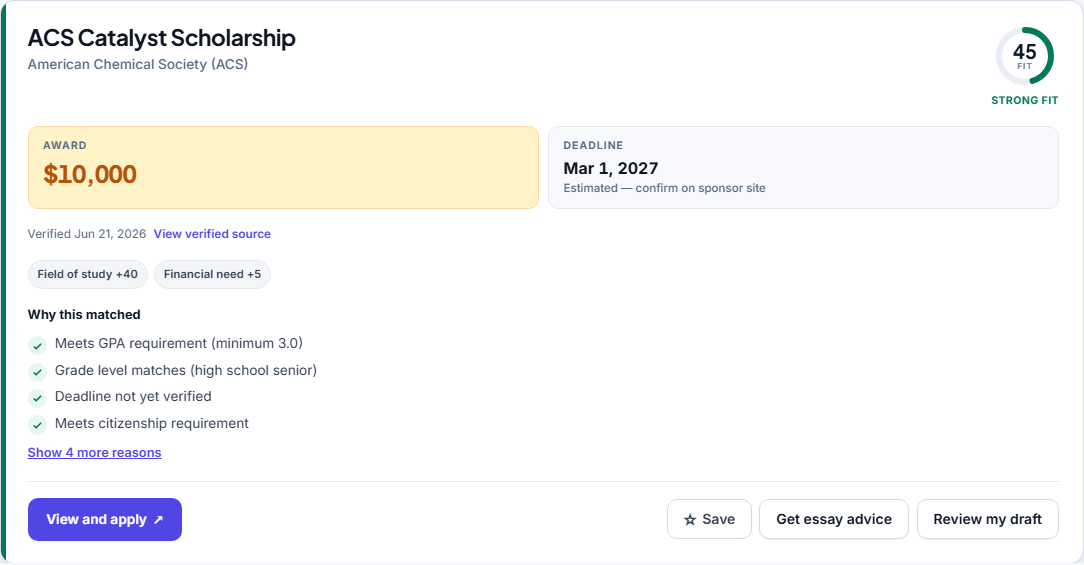
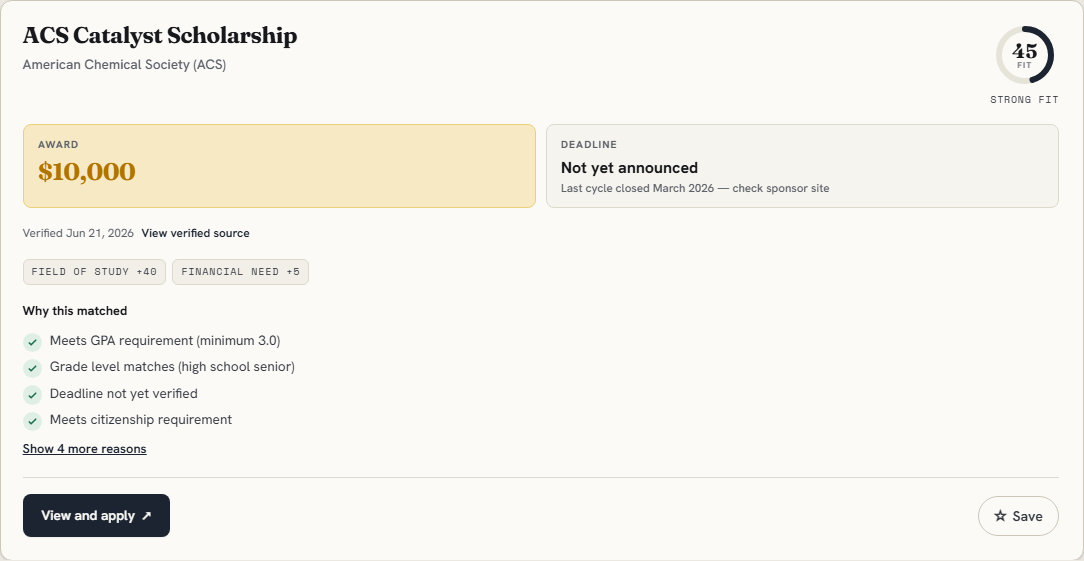
Refresh README screenshots; adapt capture script to multi-step form
Also replaces the last em dash in a UI string (deadline note).

diff --git a/app/static/index.html b/app/static/index.html
@@ -25,7 +25,7 @@
   <link rel="preconnect" href="https://fonts.googleapis.com">
   <link rel="preconnect" href="https://fonts.gstatic.com" crossorigin>
   <link href="https://fonts.googleapis.com/css2?family=Fraunces:opsz,wght@9..144,400;9..144,500;9..144,600;9..144,700&family=Hanken+Grotesk:wght@400;500;600;700&family=Space+Mono:wght@400;700&display=swap" rel="stylesheet">
-  <link rel="stylesheet" href="/static/css/style.css?v=20260709-3">
+  <link rel="stylesheet" href="/static/css/style.css?v=20260709-4">
 </head>
 <body>
   <a class="skip-link" href="#main">Skip to content</a>
@@ -836,6 +836,6 @@
     </div>
   </div>
 
-  <script src="/static/js/app.js?v=20260709-3"></script>
+  <script src="/static/js/app.js?v=20260709-4"></script>
 </body>
 </html>

diff --git a/app/static/js/app.js b/app/static/js/app.js
@@ -4861,7 +4861,7 @@ function deadlineParts(deadline, estimated) {
       if (isPastDate(estimated)) {
         return {
           value: "Not yet announced",
-          note: `Last cycle closed ${formatMonthYear(estimated)} \u2014 check sponsor site`,
+          note: `Last cycle closed ${formatMonthYear(estimated)}; check sponsor site`,
         };
       }
       return { value: formatVerifiedDate(estimated), note: "Estimated; confirm on sponsor site" };

diff --git a/app/templates/base.html b/app/templates/base.html
@@ -17,7 +17,7 @@
   <link rel="preconnect" href="https://fonts.googleapis.com">
   <link rel="preconnect" href="https://fonts.gstatic.com" crossorigin>
   <link href="https://fonts.googleapis.com/css2?family=Fraunces:opsz,wght@9..144,400;9..144,500;9..144,600;9..144,700&family=Hanken+Grotesk:wght@400;500;600;700&family=Space+Mono:wght@400;700&display=swap" rel="stylesheet">
-  <link rel="stylesheet" href="/static/css/style.css?v=20260709-3">
+  <link rel="stylesheet" href="/static/css/style.css?v=20260709-4">
   {% block head_extra %}{% endblock %}
 </head>
 <body class="page-static">

diff --git a/tests/test_pages.py b/tests/test_pages.py
@@ -84,8 +84,8 @@ class TestProductionHygiene:
         assert response.status_code == 200
         assert 'id="google-login-link"' in response.text
         assert 'href="/auth/google/login"' in response.text
-        assert "/static/css/style.css?v=20260709-3" in response.text
-        assert "/static/js/app.js?v=20260709-3" in response.text
+        assert "/static/css/style.css?v=20260709-4" in response.text
+        assert "/static/js/app.js?v=20260709-4" in response.text
 
     def test_index_substitutes_live_catalog_counts(self, client):
         response = client.get("/")

diff --git a/scripts/capture_readme_screenshots.py b/scripts/capture_readme_screenshots.py
@@ -34,11 +34,14 @@ def main() -> None:
 
         page.locator(".hero").screenshot(path=OUT_DIR / "hero.png")
 
+        # The profile form is three steps; fill each step, then advance.
         page.locator("#gpa").fill("3.8")
         page.locator("#grade-level").select_option(label="High school senior")
+        page.locator("#step-next-btn").click()
         page.locator("#citizenship").select_option(label="US citizen")
         page.locator("#state").select_option(label="Texas")
         page.locator("#financial-need").select_option(label="Medium")
+        page.locator("#step-next-btn").click()
         page.locator('#fields-of-study input[value="engineering"]').check()
         page.locator("#submit-btn").click()
 